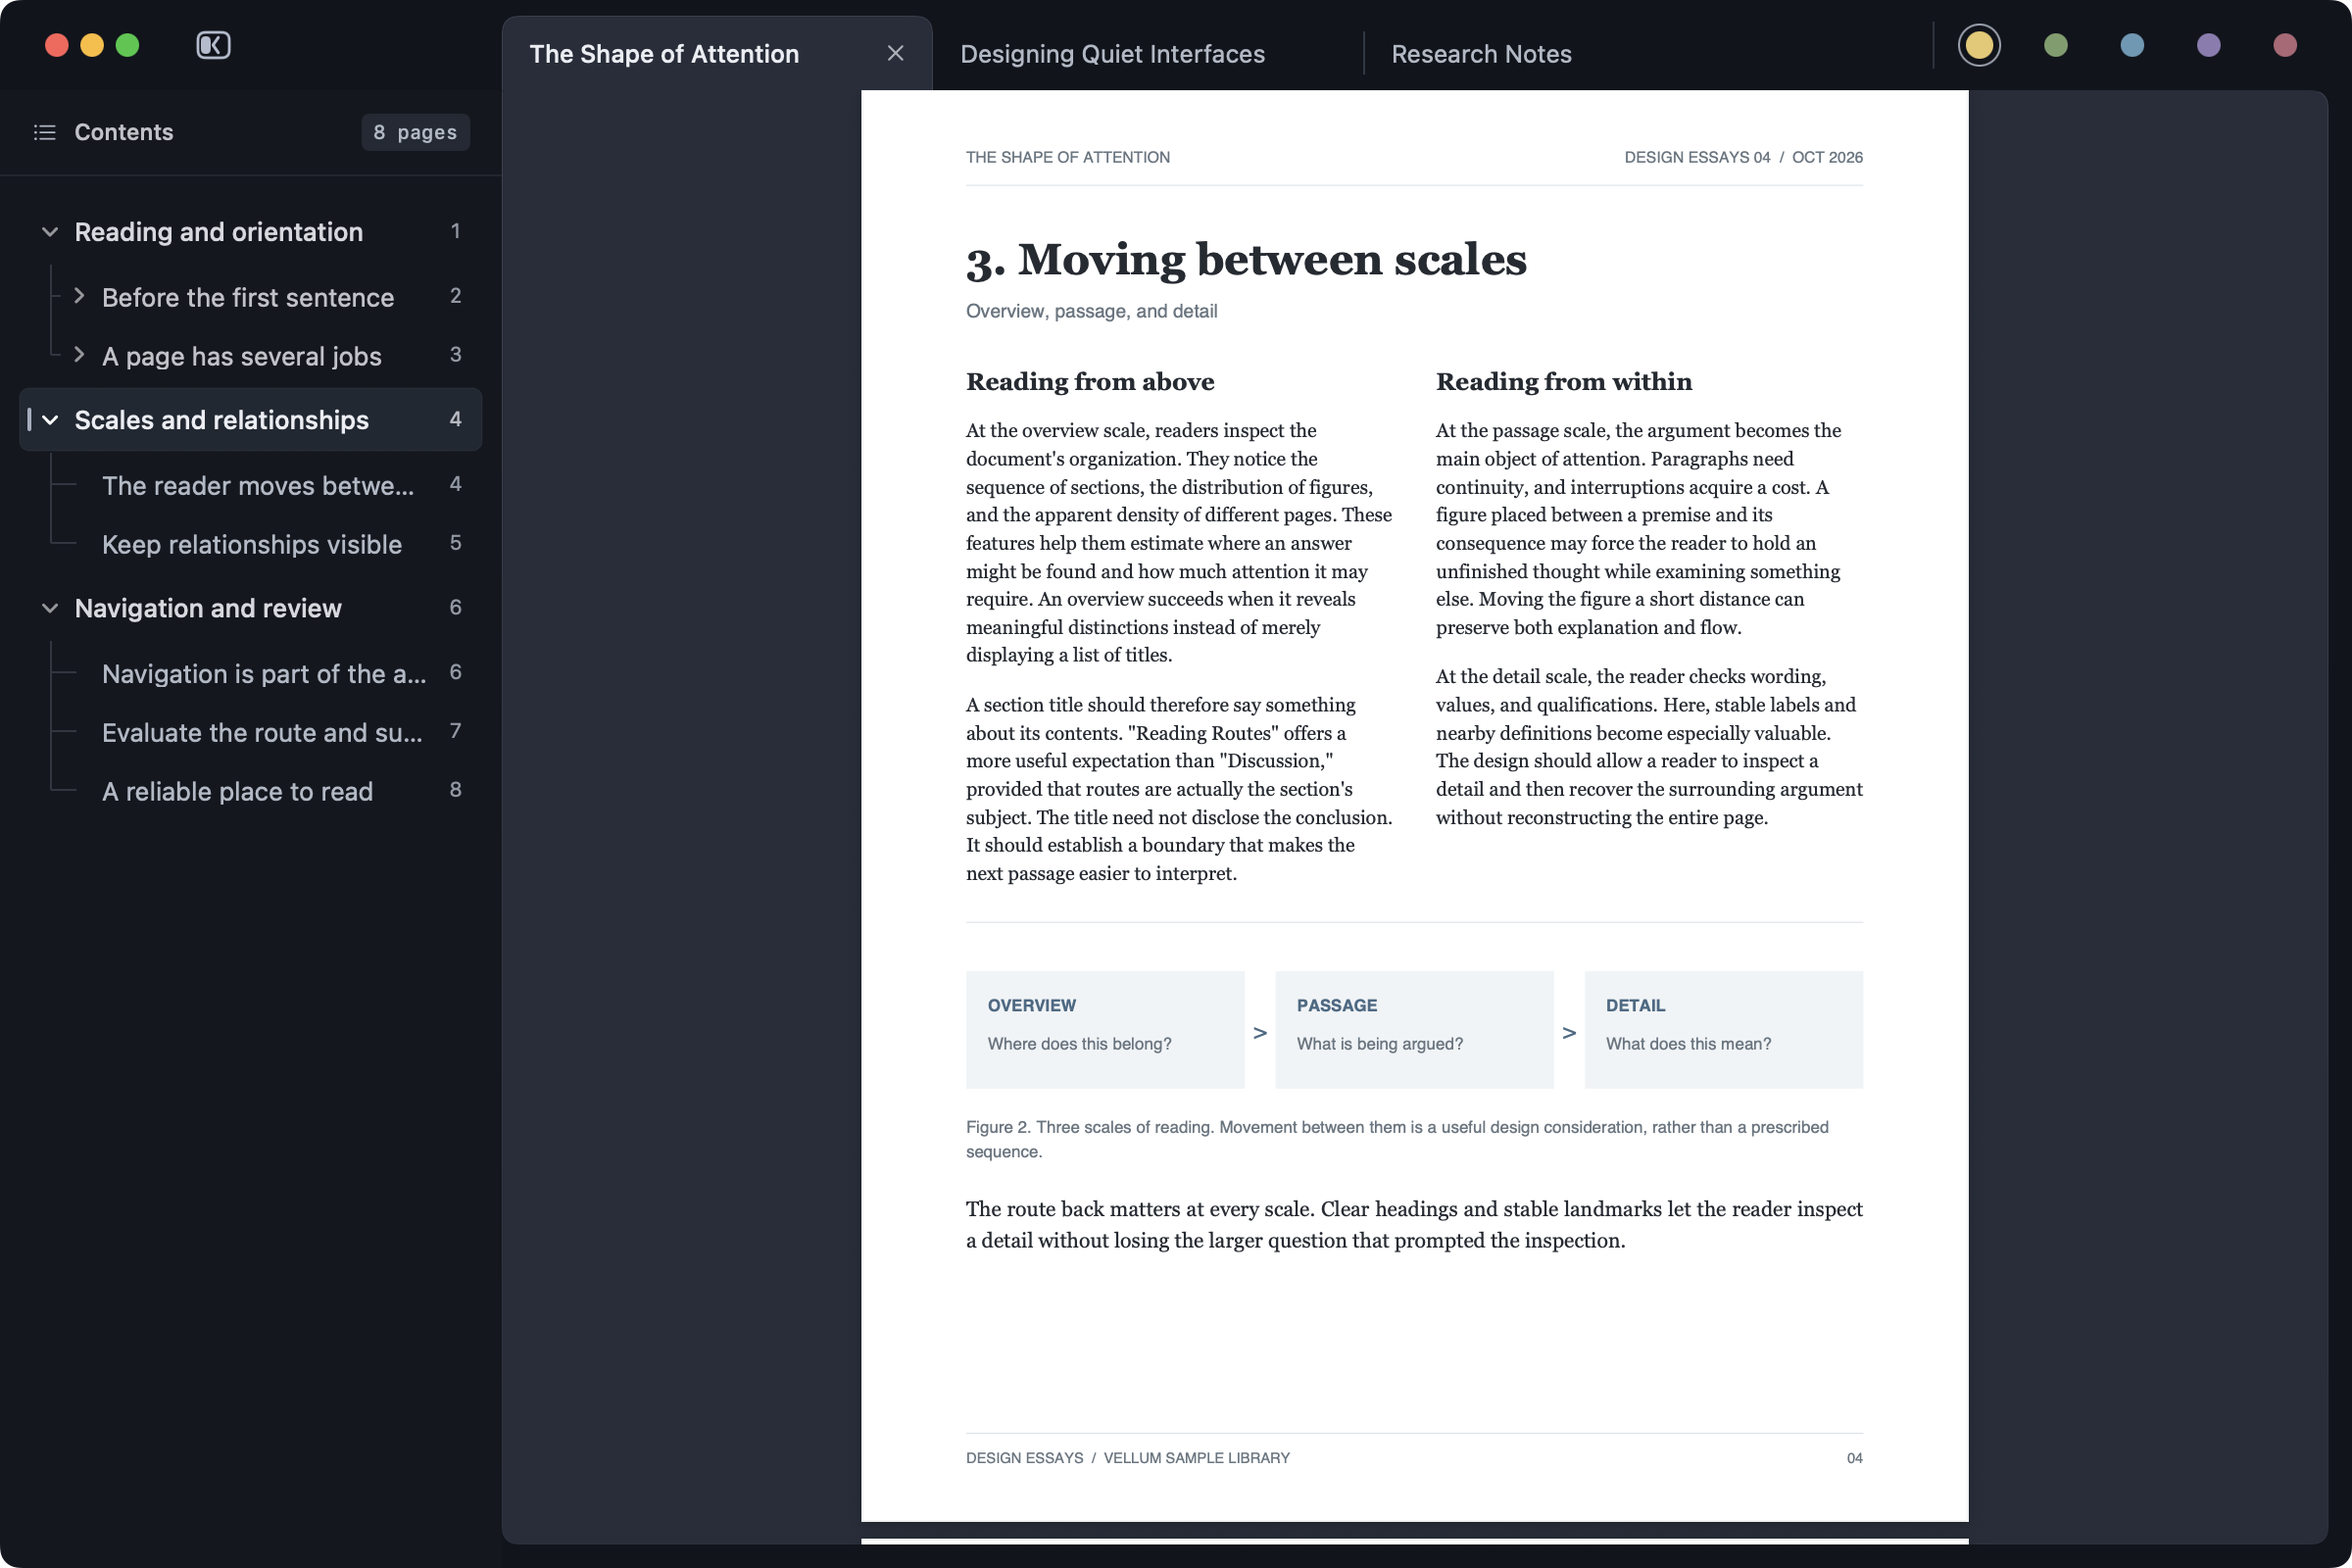
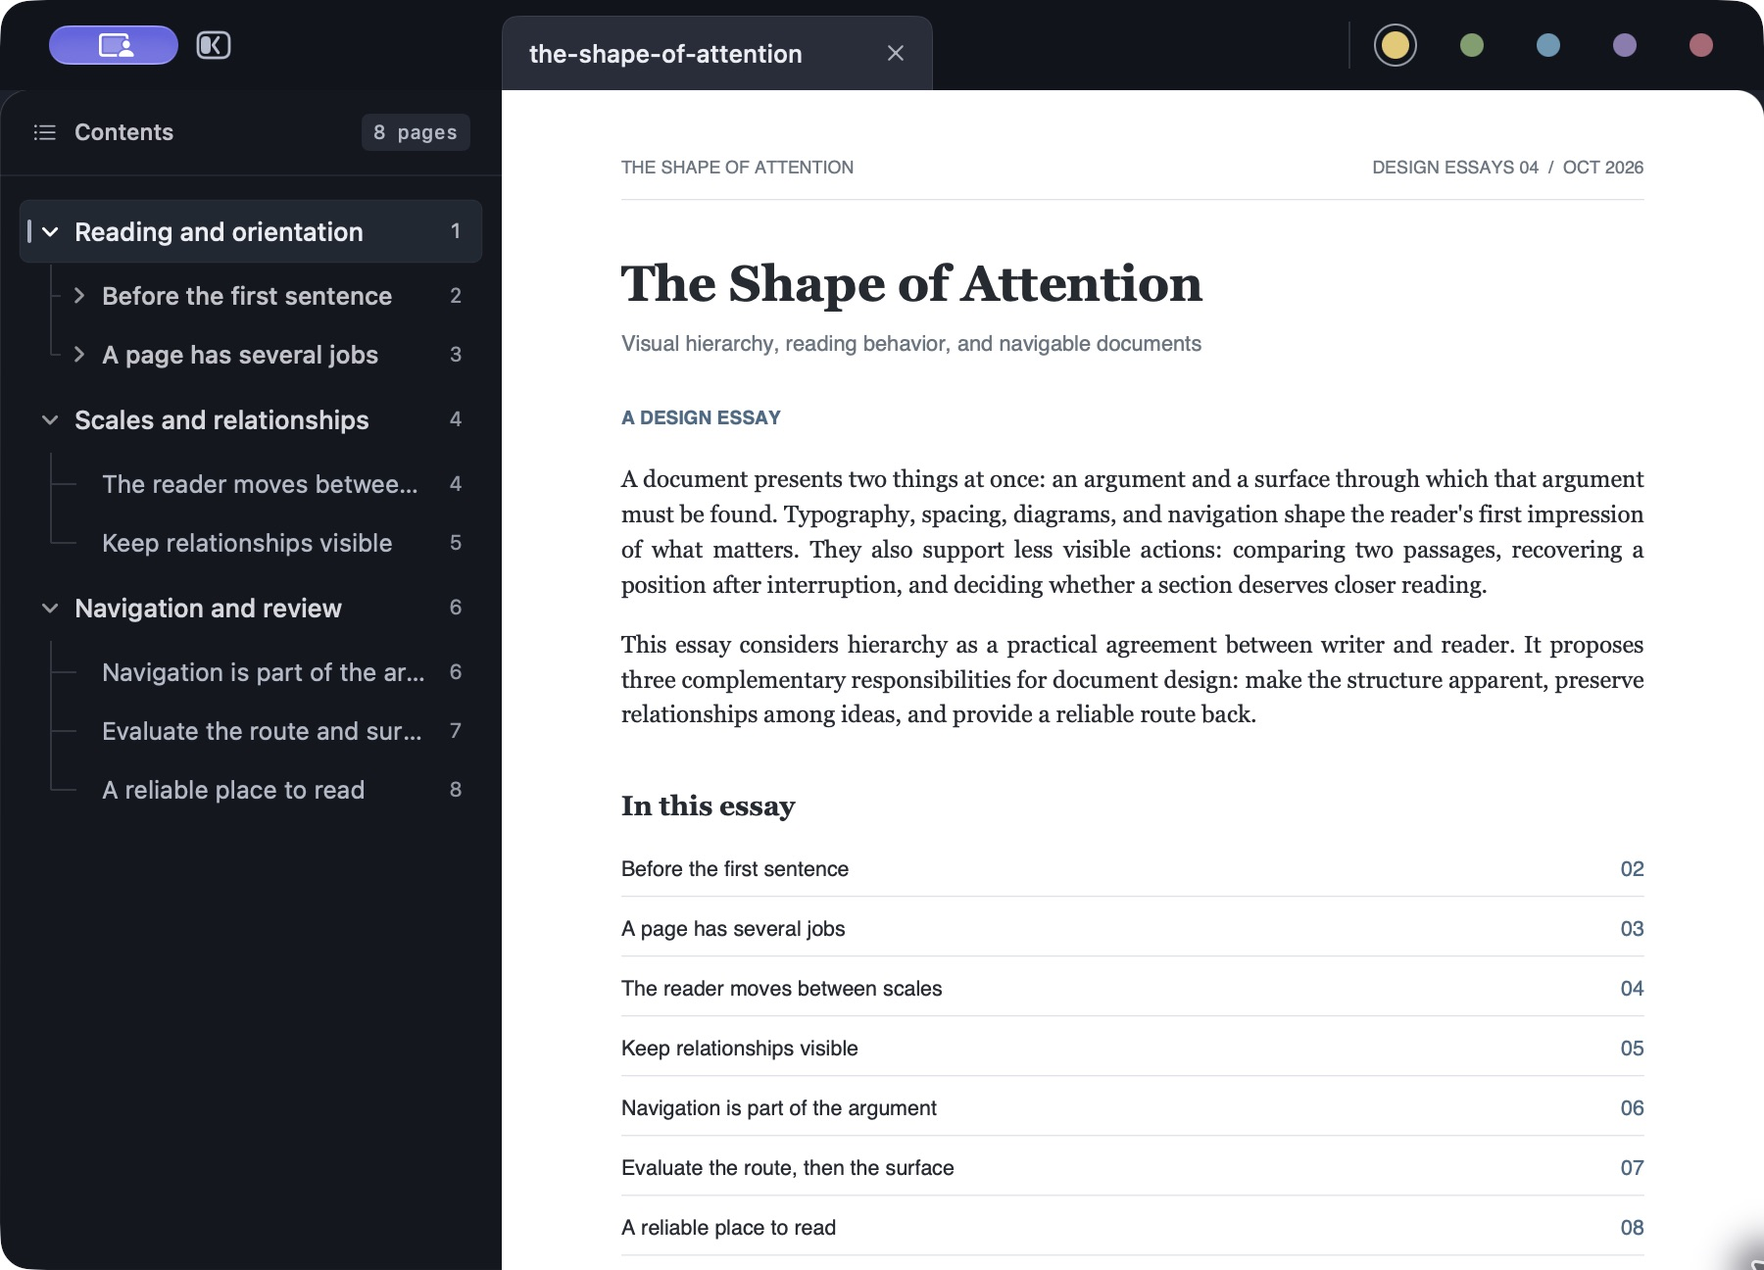
Extend the reading surface to the window edges

diff --git a/Sources/VellumCore/Views/Reader/ContentView.swift b/Sources/VellumCore/Views/Reader/ContentView.swift
@@ -10,55 +10,46 @@ public struct ContentView: View {
     public var body: some View {
         GeometryReader { geometry in
             let emptyLayout = EmptyReaderLayout(size: geometry.size)
-            let joinsLeadingTab = appState.hasOpenTabs && appState.isOutlineVisible
-                && appState.tabs.first?.id == appState.selectedTabID
             let edgeInset = emptyLayout.inset
             let cornerRadius = emptyLayout.cornerRadius
             let readerShape = UnevenRoundedRectangle(
-                topLeadingRadius: joinsLeadingTab ? 0 : cornerRadius,
-                bottomLeadingRadius: cornerRadius,
-                bottomTrailingRadius: cornerRadius,
+                topLeadingRadius: cornerRadius,
+                bottomLeadingRadius: 0,
+                bottomTrailingRadius: 0,
                 topTrailingRadius: cornerRadius,
-                style: appState.hasOpenTabs ? .continuous : .circular
+                style: .circular
             )
 
             ZStack {
                 VStack(spacing: 0) {
                     if appState.hasOpenTabs {
                         TabStrip(edgeInset: edgeInset)
+                    } else {
+                        VellumColors.backgroundDeepColor.frame(height: 46)
                     }
 
                     HStack(spacing: 0) {
                         if appState.isOutlineVisible, appState.hasOpenTabs {
                             OutlineSidebar(tab: appState.selectedTab)
                                 .frame(width: 256)
-                                .padding(.leading, edgeInset)
-                                .padding(.bottom, edgeInset)
                         }
 
                         ReaderStack(emptyScale: emptyLayout.scale)
-                            .clipShape(readerShape)
-                            .background {
-                                readerShape
-                                    .fill(VellumColors.panelColor)
-                            }
-                            .overlay {
-                                readerShape
-                                    .strokeBorder(
-                                        LinearGradient(colors: [VellumColors.foregroundColor.opacity(0.10),
-                                                                VellumColors.foregroundColor.opacity(0.025)],
-                                                       startPoint: .top, endPoint: .bottom),
-                                        lineWidth: 0.5
-                                    )
-                                    .mask(Rectangle().padding(.top, appState.hasOpenTabs ? 1 : 0))
-                                    .allowsHitTesting(false)
-                            }
-                            .padding(.trailing, edgeInset)
-                            .padding(.bottom, edgeInset)
-                            .padding(.leading, appState.isOutlineVisible && appState.hasOpenTabs ? 0 : edgeInset)
-                            .padding(.top, appState.hasOpenTabs ? 0 : edgeInset)
+                            .background(VellumColors.panelColor)
                     }
                     .background(VellumColors.backgroundDeepColor)
+                    .clipShape(readerShape)
+                    .overlay {
+                        readerShape
+                            .strokeBorder(
+                                LinearGradient(colors: [VellumColors.foregroundColor.opacity(0.10),
+                                                        VellumColors.foregroundColor.opacity(0.025)],
+                                               startPoint: .top, endPoint: .bottom),
+                                lineWidth: 0.5
+                            )
+                            .mask(Rectangle().padding(.top, appState.hasOpenTabs ? 1 : 0))
+                            .allowsHitTesting(false)
+                    }
                 }
 
                 .allowsHitTesting(!appState.isTabSwitcherPresented && !appState.isHighlightsPresented && !appState.isPDFQuickOpenPresented)
@@ -66,9 +57,7 @@ public struct ContentView: View {
 
                 if appState.isTabSwitcherPresented {
                     TabSwitcherOverlay()
-                        .clipShape(RoundedRectangle(cornerRadius: cornerRadius, style: .continuous))
-                        .padding(.horizontal, edgeInset)
-                        .padding(.bottom, edgeInset)
+                        .clipShape(readerShape)
                         .padding(.top, 38 + edgeInset)
                 }
 

diff --git a/Sources/VellumCore/Views/Reader/TabStrip.swift b/Sources/VellumCore/Views/Reader/TabStrip.swift
@@ -44,7 +44,7 @@ struct TabStrip: View {
                 .frame(maxWidth: .infinity, maxHeight: .infinity, alignment: .bottomLeading)
             }
             .frame(height: 38 + edgeInset)
-            .padding(.leading, appState.isOutlineVisible ? 122 + edgeInset : 0)
+            .padding(.leading, appState.isOutlineVisible ? 122 : 0)
             .layoutPriority(1)
 
             HighlightToolbar()

diff --git a/Sources/VellumCore/Views/Reader/ReaderStack.swift b/Sources/VellumCore/Views/Reader/ReaderStack.swift
@@ -3,7 +3,7 @@ import SwiftUI
 struct EmptyReaderLayout {
     let scale: CGFloat
     var inset: CGFloat { 8 * scale }
-    var cornerRadius: CGFloat { 14 - inset }
+    var cornerRadius: CGFloat { 14 }
 
     init(size: CGSize) {
         scale = min(max(min(size.width / 900, size.height / 650), 0.9), 1.2)
